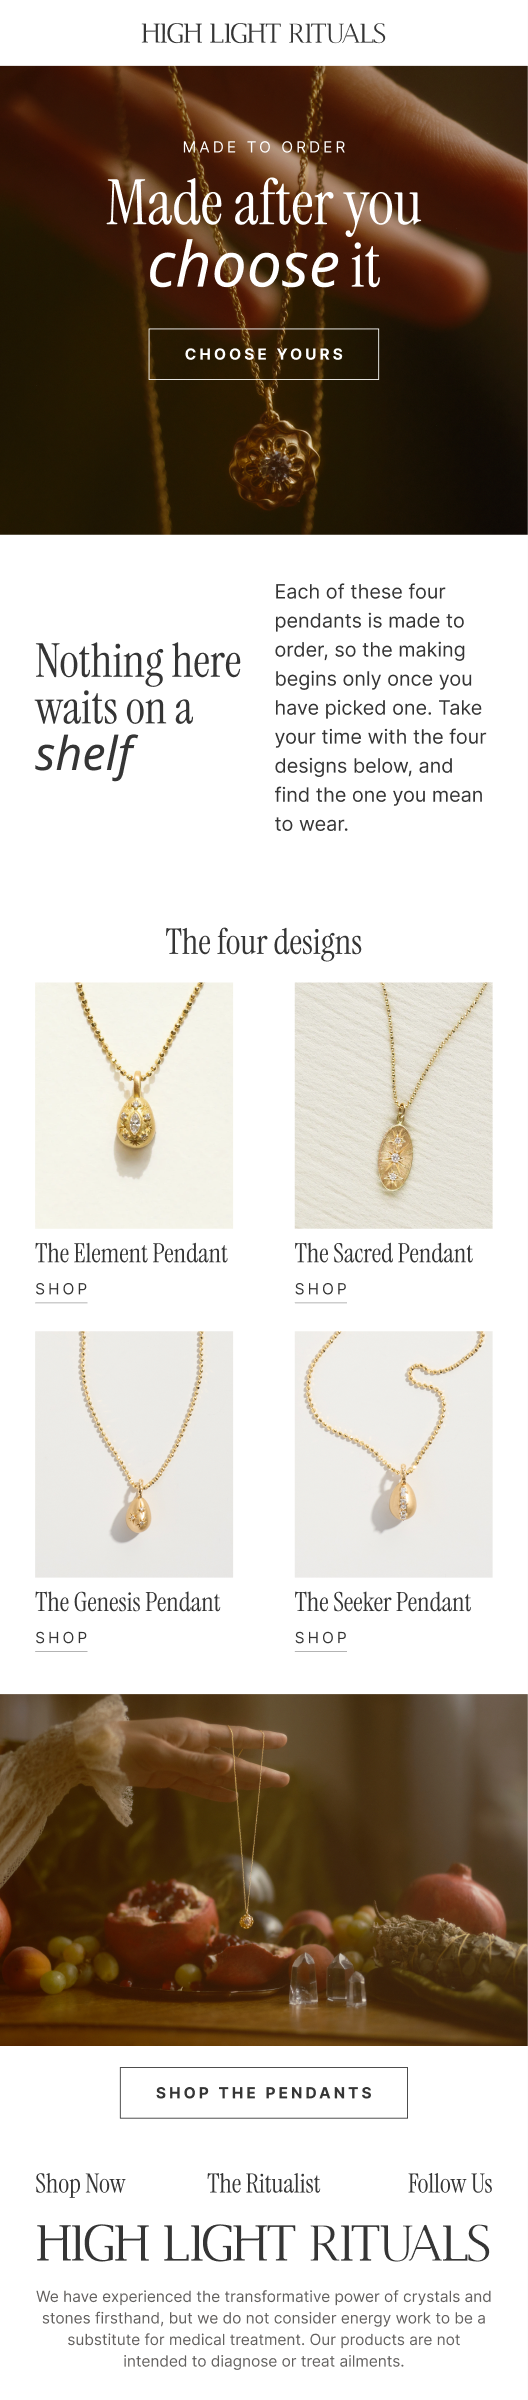
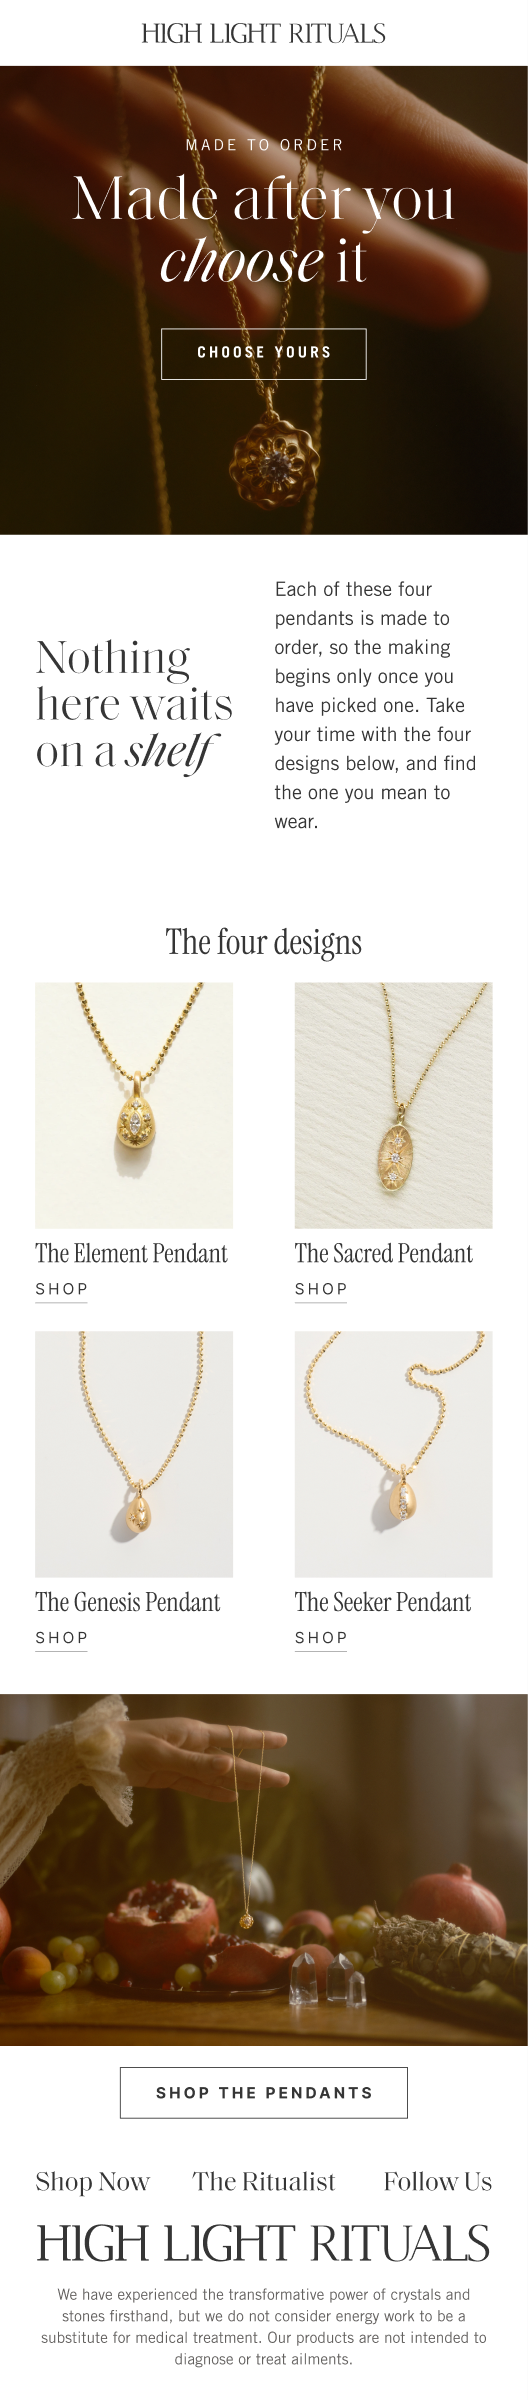
HLR: library switched to the real faces, slots re-measured
Eddie loaded Saol Display, Saol Standard and Trade Gothic LT Std to the
team Figma. The library's 8 font variables (24 values) now name the real
faces; figma.yaml's stand-in maps are empty; every slot re-measured on
the real faces (one change: M06's SHOP link 3x to 4x; E02.label stays 12,
set by M15). The license flag stays raised until HLR confirms the licenses.

Claude-Session: https://claude.ai/code/session_01D7A8SADq9LgJgKNP4hvJh9

diff --git a/outputs/step-4-figma/guards/tests/host_shape_mutations.py b/outputs/step-4-figma/guards/tests/host_shape_mutations.py
@@ -18,7 +18,7 @@ cases = {
  'm2 M11 shape without its 16': shape('M11', json.loads(ml0)['MOD_SHAPE']['M11'].replace('16 characters at most', 'short')) + (1,),
  'm3 M15 shape names E07.name with the full-name rule and the words "short form" negated': shape('M15', m15.split('the short form')[0] + 'the full product name (E07.name, never a short form; set in caps by the style) and a caps link (E02.label, 12 characters at most).') + (1,),
  'm4 M15 shape gives the full-name rule without writing the slot id': shape('M15', m15.split('the short form')[0] + 'the product display name from products.json as written, set in caps by the style, and a caps link (E02.label, 12 characters at most).') + (1,),
- 'm5 slot map E02.label budget 12 -> 10, M15 shape still says 12': slot('max_chars: 12, budget_from: "M06"', 'max_chars: 10, budget_from: "M06"') + (1,),
+ 'm5 slot map E02.label budget 12 -> 10, M15 shape still says 12': (ml0, re.sub(r'(id: E02\.label, [^}]*max_chars: )12', r'\g<1>10', sm0), 1),
  'm6 slot map E07.name note back to the full display name': slot('note: "a short form: the stone,', 'note: "the full display name: the stone,') + (1,),
  'm7 slot map M12.cta 16 -> 14, M12 shape still says 16': (ml0, re.sub(r'(id: M12\.cta, [^}]*max_chars: )16', r'\g<1>14', sm0), 1),
  'm8 E07 own shape back to the full display name': shape('E07', 'label: one accent word (a month, a stone); name: the product display name from products.json, as written (the style sets caps).') + (1,),

diff --git a/REVIEW.md b/REVIEW.md
@@ -209,7 +209,7 @@ Seeded from LEARNINGS.md and lane F's dry run. Entries are cited by a phrase fro
 | R5 | Fixtures that carry another brand's facts or drift from their source | engines 0.5.0 and 0.5.1 (fixture slot maps, budgets, barred terms, review ids, reworded quotes; three evals graded against an earlier fixture) | fixtures rewritten with fictional brands (DECISIONS, 0.5.0 and 0.5.1); the census and scans cover tests and fixtures | no test checks a fixture's label or an eval's match to its fixture; lane H, at its next close |
 | R6 | A platform number that is a brand's, or rests on a secondary source | engines 0.5.0 and 0.5.1 (paid safe bands from one brand's guide layer); Step 1b pattern review (9:16 from a secondary summary) | `_verified`, `_sources` and a confidence on every spec number; agreed numbers error, others warn (check 6) | the spec scan sits in `$RC/0.5.2/`, not yet beside the other tools, lane H at its next close; a person confirms the paid 9:16 bands and copy limits in Meta's guide before the first paid build, and `_verified` moves (DECISIONS 2026-10-18) |
 | R7 | An em dash in marketing copy or HLR-bound output | Gate 3 proposed (frame names); lane F (a written escape became one in REVIEW.md's draft) | guard built: lane E, `outputs/step-2-pack/preflight.md` (R7): the character is in HLR's `prohibited_patterns` (File map) and every lint blocks it end to end, a comma control drawing nothing; the grep in section 2 | `page_lint.js` refuses every page until the web taxonomy is ratified at Review 2; Eddie |
-| R8 | Faces the Figma build path cannot load | Gate 3 proposed; engines 0.5.0 and 0.5.1; lane B (a stand-in maps families, not styles); Chat 6 review round 1 (R1-03: four labels bound only their font style) | Gate 3 call 7, path 1: stand-ins in `figma.yaml`, families bound to `HLR / Layout` variables and switched in the desktop app, budgets re-measured; guard built: Chat 5, `outputs/step-4-figma/guards/r8_text_style_family.js` (every text style binds its family to a variable; 15 styles, 0 fails, 2026-10-23); guard extended: Chat 6, `outputs/step-4-figma/guards/r8_text_nodes.js` (every text segment binds family, size and style, through its style or on the node; 01 to 04, 0 fails, 2026-10-23) | the switch to the real faces waits on HLR's licenses (rule 8); HLR |
+| R8 | Faces the Figma build path cannot load | Gate 3 proposed; engines 0.5.0 and 0.5.1; lane B (a stand-in maps families, not styles); Chat 6 review round 1 (R1-03: four labels bound only their font style) | Gate 3 call 7, path 1: stand-ins in `figma.yaml`, families bound to `HLR / Layout` variables and switched in the desktop app, budgets re-measured; guard built: Chat 5, `outputs/step-4-figma/guards/r8_text_style_family.js` (every text style binds its family to a variable; 15 styles, 0 fails, 2026-10-23); guard extended: Chat 6, `outputs/step-4-figma/guards/r8_text_nodes.js` (every text segment binds family, size and style, through its style or on the node; 01 to 04, 0 fails, 2026-10-23) | the switch to the real faces ran 2026-10-23 at Eddie’s request, once the build path could load them; shipping still waits on HLR’s licenses (rule 8); HLR |
 | R9 | Figma limits hit mid-run | Step 1, chat 1 (20 KB results); Step 1b pattern review (one rate limit for parallel subagents); Gate 1 closed (10 calls a minute, 200 a day) | the call budget in the first brief; aggregates by script, bulk reads by `get_metadata` | a habit, accepted for Phase 1; a brief without a call budget is a should-fix |
 | R10 | Sources that disagree by date | Step 1, chat 1 (book, site and SVG fills); Step 1b pattern review (imagery families with no card); lane B (archive mark fills) | sources dated; contradictions flagged in `brand-context.md`, never silently resolved (playbook section 3) | a habit (rule 2's trace), accepted for Phase 1 |
 | R11 | Cost not measured, or measured two ways that disagree | every 2026-10-17 entry and lane B (main chat not measured); lane A (its own count and the harness's disagree, both over target) | each entry's cost line | a habit, accepted for Phase 1; the forge proof still needs a measured cost (Chat 7) |

diff --git a/DECISIONS.md b/DECISIONS.md
@@ -4,6 +4,8 @@ Newest first. Each line: the decision, its reason, what it replaced. Only Eddie 
 
 ## 2026-10-23
 
+- Eddie, 2026-10-23: use HLR’s real faces in the library (“i want to use the real fonts”). He loaded Saol Display, Saol Standard and Trade Gothic LT Std to the team Figma, and the build path now loads them. Claude switched the 8 font variables (24 values: font/family/display, title and body; font/style/display, display-accent, headline-accent, quote and price) in all three Layout modes, renamed the six notices License notice and reworded them, updated the Type board’s meta lines, the 14 text style descriptions and the 8 font variable descriptions (from the engine’s plan, now without stand-ins), and emptied figma.yaml’s stand-in maps. The license flag stays raised until HLR confirms the licenses (rule 8). Reason: Eddie’s request; the stand-ins existed only because the build path could not load the faces (Gate 3 call 7, path 1). Replaced: the stand-ins, and REVIEW.md R8’s gap, which held the switch for HLR’s licenses.
+- Every slot re-measured on the real faces (probe v3d, `chat6/inv4/probe4.json`: 100 slot entries over 8 elements, 21 modules and the M02, M04, M09 and E06 option instances; every lint PASS, every text restored). One changed: M06’s SHOP link from 3x to 4x, so E02.label stays 12 characters, now set by M15 (budget_from M15). slotmap.yaml’s measured_at names the real faces, and slot lint passes with no stand-in warnings. On Trade Gothic Bold at 35 px, Chrysocolla and Dumortierite now fit E07’s 320 card on one line; Phosphosiderite still breaks inside the word (Rhodochrosite would too), so those cards are set by hand. Decided by Claude. Reason: the budgets were provisional on the stand-ins. Replaced: the stand-in measure (`chat6/inv3/probe3.json`).
 - Fresh-context review of Foundations, round 3, the last (`outputs/step-4-figma/review-foundations-r3.md`): 0 blockers, 1 should-fix, 6 notes; round 2’s fixes held but for the five pair cells’ layer names. Fixed: F3-02, F3-03 and F3-01’s live row (K3’s and C2’s steps now name Review 2, where Eddie confirms the Gate 4 calls). Open: F3-01’s approach (the closed-gate guard, three options on the decision sheet, default 1) and F3-04 (rule 4’s wording, a REVIEW.md change) go to Eddie; F3-05 to F3-07 are logged for Chat 6’s next close, since a guard changed after the last round would ship unreviewed. Decided by Claude under Eddie’s delegation. Reason: REVIEW.md section 5 steps 4 and 6, section 4 tier 1. Replaced: nothing.
 - Fresh-context review of Foundations, round 2 (`outputs/step-4-figma/review-foundations-r2.md`): 0 blockers, 2 should-fix and 5 notes; the eight round 1 fixes held in every copy. All seven fixed in the same release, the two notes the reviewer gave Eddie included (the email batch had used its three rounds; both are a record and a guard, no decision). Round 3, the last, re-reads them. Decided by Claude under Eddie’s delegation. Reason: REVIEW.md section 5. Replaced: nothing.
 - Gate 4’s open gaps, in full: web breakpoints, margins and grid, and the web focus ring (token-model K2), go to Eddie at Review 2 with the web masters; the highlight cover’s canvas and structure to Eddie with the organic social batch; mark clear space and minimum sizes to HLR’s vectors (Review 1). The pack, the gap register (a Review 2 step for the breakpoints row, a new focus ring row) and the Review 2 package (section 7) say so. Decided by Claude under Eddie’s delegation. Reason: F2-01: six pack lines still sent these to Gate 4 after it closed, and the Gate 4 line below named two gaps where the Foundations line routed three. Replaced: the two-gap list in the Gate 4 line below.

diff --git a/brand-pack/brand-context.md b/brand-pack/brand-context.md
@@ -102,7 +102,7 @@ Voice-side house style lives in `voice-contract.md` section 6 and wins over this
 
 - Tokens: `tokens.json` (DTCG; 103 tokens, 82 [documented], 20 [observed], 1 [derived] by first tag (`color.semantic.text.on-placeholder`, Gate 4; the placeholder label’s alias carries a second, [derived] tag), counted 2026-10-23; namespace `com.hlr`, CSS prefix `--hlr-`). Ground modes on `HLR / Semantic` (`light`, `warm`, `deep`, `night`, named at Gate 4 on 2026-10-23); canvas modes on `HLR / Layout` (`web`, `social`, `email`; DECISIONS 2026-10-18, Gate 2 question 1). The installed engine is 0.5.3 (Eddie, 2026-10-22): `check` passes in every ground and canvas. Web exports: `web/tokens.css`, `web/tailwind.tokens.js` and `web/tokens.flat.json`, generated from `tokens.json` by `tokens_build.js export` on 2026-10-23 (regenerated, never hand-edited; `font.style` stays in Figma, the web takes `font.weight`).
 - The contrast law, the type roster, the gap register and the ratification log: `token-model.md`. The law is [documented] (ratified 2026-10-22 by Eddie, Gate 2 package call 2): every ground in the roster carries body copy in its ink; Fawn is never an ink on Alabaster, white or the neutrals. Copy on photography is judged by eye on the real image [documented, DECISIONS 2026-10-18: Eddie's ruling, Gate 2 question 4].
-- Faces (Gate 1, C5, for HLR to confirm): Saol Display, Saol Standard, Trade Gothic LT Std, Homemade Apple. License flag raised: Saol and Trade Gothic have no license file (`figma.yaml` `fonts.licensed: false`) [observed, 2026-10-17], so every deliverable that renders text carries the flag [documented, project rule 8]. The Figma build sets Instrument Serif and Inter as stand-ins and Eddie switches the family variables in the desktop app (Gate 3 call 7, path 1).
+- Faces (Gate 1, C5, for HLR to confirm): Saol Display, Saol Standard, Trade Gothic LT Std, Homemade Apple. License flag raised: Saol and Trade Gothic have no license file (`figma.yaml` `fonts.licensed: false`) [observed, 2026-10-17], so every deliverable that renders text carries the flag [documented, project rule 8]. The Figma library is set in the real faces since 2026-10-23, when Eddie loaded them to the team Figma and the build path could load them [observed, 2026-10-23]; it ran on Instrument Serif and Inter stand-ins until then (Gate 3 call 7, path 1).
 - Marks: `logo-assets.md`. The wordmark and the monogram exist as SVG [observed, `HLR Logo & Marks/`, 2026-10-18]; the star and every lockup with it wait for HLR's vectors, and no lockup is composed by eye [documented] (ratified 2026-10-22 by Eddie, Gate 2 package call 11); a mark is placed, never redrawn or set in a font [documented, playbook section 4; the pack contract's `logo_assets` row]. The rest of the mark rules are [documented] (ratified 2026-10-22 by Eddie, Gate 2 package call 11).
 - Imagery: Eddie owns the images on the reference file's Images page (97: founder headshots, HLR Editorial, product shots, Zodiac Sets, Amulets; now on the library's `photos` page, 27:104) and the product images on the site, and cleared them for HLR's designs [documented, DECISIONS 2026-10-23: Eddie's ruling, image rights]; an image from any other source keeps the labelled grey placeholder until its right is confirmed [documented, project rule 8]; releases for the people in them stay HLR's question (`faces_policy`) [documented, Brand Review v2 Q6]; nothing is generated in place of a real shot until Eddie rules on it for HLR (REVIEW.md rule 8: no ruling yet) [derived]. Art direction cards: `art-direction.md`. The asset roster: `asset-types.md`. Figma state: `figma.yaml` (library `Gq3yUbLs6MCRM0nOhjvnIW`, slot namespace `hlr`).
 

diff --git a/brand-pack/token-model.md b/brand-pack/token-model.md
@@ -109,8 +109,8 @@ Roster (Gate 3 call 7 and Gate 2 question 1): 15 text styles named by role and s
 | Trade Gothic LT Std (Regular, Bold, Light, Light Oblique, Oblique) | `Desktop/*.otf` | no license file | unconfirmed; owner HLR |
 | Trade Gothic LT W01 (web kit) | `Web/Trade Gothic Roman + Bold/` | Monotype Webfonts Pay-As-You-Go EULA: sites the licensee owns, no email | web only |
 | Homemade Apple | `homemade-apple/` | Apache 2.0, LICENSE on disk | cleared |
-| Instrument Serif (Figma build stand-in) | `instrument-serif/` | SIL OFL 1.1, LICENSE on disk | cleared |
-| Inter (Figma build stand-in) | none on disk | no license file on disk | confirm before any use outside the Figma build |
+| Instrument Serif (the Figma build’s stand-in until 2026-10-23) | `instrument-serif/` | SIL OFL 1.1, LICENSE on disk | cleared |
+| Inter (the Figma build’s stand-in until 2026-10-23) | none on disk | no license file on disk | confirm before any use outside the Figma build |
 
 Open with HLR: whether the desktop licenses cover type rendered into email image slices and social and paid art.
 
@@ -140,7 +140,7 @@ Status: open, [observed], [derived] proposal, ruled, conflict. Owner is who clos
 | T7 | Type ramp | ruled (ratified 2026-10-22 by Eddie, Gate 2 package call 3) | section 3 | Eddie | Gate 2 |
 | T8 | Ramp per canvas | ruled (Eddie, 2026-10-18, Gate 2 question 1): canvas modes on Layout, `web`, `social`, `email`; 15 styles | `font.size.<step>` with a value per canvas mode; the engine support is 0.5.3 | lane H | 0.5.3 |
 | T9 | Leading and tracking in Figma | ruled (Eddie, 2026-10-18, Gate 2 question 3): set on each style, unbound, in percent | Figma binds them only as pixels | none | |
-| T10 | Stand-in styles: Instrument Serif has no Light, Light Italic, Regular Italic or Medium | ruled (Eddie, 2026-10-18, Gate 2 question 2) | `figma.yaml` `fonts.build_stand_in_styles`; every face the build loads exists | none | |
+| T10 | Stand-in styles: Instrument Serif has no Light, Light Italic, Regular Italic or Medium | closed: moot since 2026-10-23, the library is set in the real faces (ruled before by Eddie, 2026-10-18, Gate 2 question 2) | `figma.yaml` `fonts.build_stand_in_styles`; every face the build loads exists | none | |
 | T11 | Live-text email sizes (body 28, small 22) | conditional (C8) | no tokens until HLR says the ESP sends live text | HLR | Review 1 |
 | T12 | Case and text-style properties a variable cannot bind | ruled (ratified 2026-10-22 by Eddie, Gate 2 package call 5) | the roster in `$extensions.com.hlr.text_styles` | Chat 5 | Step 4 |
 | L1 | Space scale | ruled (ratified 2026-10-22 by Eddie, Gate 2 package call 8): 4-based, Tailwind numbering | normalises observed 10, 15, 50 | Eddie | Gate 2 |

diff --git a/PROGRESSION.md b/PROGRESSION.md
@@ -58,7 +58,7 @@ Runs as parallel lanes A to E (`_setup/next-chat-prompts.md`).
 ## Step 4. Figma
 
 - [x] **Gate 3** (lane G): Eddie ruled the file and the conventions (2026-10-17, chat 4: `outputs/step-4-figma/gate-3-conventions.md`, DECISIONS); the variables and text styles wait for Pack v0 and Gate 2
-- [x] Foundations through the engine's design-system skill (2026-10-17: the pages, the four empty collections with their modes and the six empty boards exist; ids in `figma.yaml`): pages, variables with every id recorded, text styles on the real faces with the OTFs uploaded, marks as SVG components, the certified-pairs board, the strictness map (2026-10-23, Chat 5: built, with the text styles on the stand-ins under Gate 2 question 2 and the license flag raised; guards R8 and R13; DECISIONS)
+- [x] Foundations through the engine's design-system skill (2026-10-17: the pages, the four empty collections with their modes and the six empty boards exist; ids in `figma.yaml`): pages, variables with every id recorded, text styles on the real faces with the OTFs uploaded, marks as SVG components, the certified-pairs board, the strictness map (2026-10-23, Chat 5: built, with the text styles on the stand-ins under Gate 2 question 2 and the license flag raised; guards R8 and R13; DECISIONS; 2026-10-23, Chat 6: switched to the real faces at Eddie’s request, every slot re-measured on them, the flag still raised)
   - 2026-10-23: fresh-context review, round 1 (`outputs/step-4-figma/review-foundations-r1.md`): 2 blockers, 3 should-fix, 3 notes on the boards and descriptions, all fixed; round 2 (`review-foundations-r2.md`): 0 blockers, 2 should-fix, 5 notes, all fixed, the guards tightened (`guards/tests/run_all.sh`); round 3, the last (`review-foundations-r3.md`): 0 blockers, 1 should-fix, 6 notes; closed with F3-01’s approach (the closed-gate guard) and F3-04 (rule 4’s wording) on Eddie’s decision sheet and F3-05 to F3-07 logged for Chat 6’s next close
 - [x] **Gate 4**: Eddie rules on the ground roster and batch scope (CTA shape ruled at Gate 1, C6) (2026-10-23: decided by Claude under Eddie's delegation, for Eddie to confirm: grounds light, warm, deep and night; the placeholder label ink; the strictness map adopted; email first; DECISIONS)
 - [ ] Before the first paid build: a person confirms the 9:16 keep-clear bands and the copy limits in Meta's Ads Guide, and `placement-specs.json`'s `_verified` moves (DECISIONS 2026-10-18)

diff --git a/LEARNINGS.md b/LEARNINGS.md
@@ -34,6 +34,10 @@ One dated entry per chat, newest first.
 - A phrase rule for promises is a heuristic: round 3 broke the closed-gate rule 20 ways in 22 lines. Where a promise lives in a table (a register’s step column), check the structure, not the prose.
 - Review rounds on guard code cost as much as rounds on the deliverable (Foundations: about 1.24M tokens over three rounds) and keep finding near variants. Build a guard for the class a round names, record its known limits in the R row, and stop.
 - The bridge to the Mac dropped at about 06:46 UTC, before the night’s last sync, so three review rounds of records waited in the session: sync and commit at each round’s close, not once at the end.
+- The real faces barely moved the budgets: one slot of 100 changed, and it grew, because Trade Gothic sets narrower than Inter and every module hugs its copy. Building on stand-ins while the faces could not load was sound.
+- Fonts loaded to the team Figma become loadable on the build path at once: check `listAvailableFontsAsync` before treating a face as desktop-only.
+- A second `device_commit_files` of the same staged path can resend the first upload, and PNGs arrive re-encoded: stage a changed file under a new name and compare md5 sums on the Mac after every commit.
+- An inline `//` comment pasted into a one-line function swallowed the rest of `scrolls()` in `checklib.js`: write comments on their own lines (or as `/* */` in a one-liner) and parse a probe library before a run.
 - A scan beats a list: round 2 named six pack lines still promising Gate 4’s work, and the scan built for them found five more. Fix a class with a scan, then let the scan find the instances.
 - A guard that hashes a prefix, a first tag word or only a pair’s names cannot see a change past what it hashes (F2-02: an exemplar changed after character 40, a ratio or a role, "[derived], ratified"). Hash the whole of what the board shows, and keep the cases that must fail beside the guard (`guards/tests/run_all.sh`).
 - A token description edit is a Figma edit too: the engine’s figma-plan is the source of the variables’s descriptions, so 19:5 and 19:44 changed in the same release as tokens.json.

diff --git a/outputs/step-4-figma/demo-email/build.md b/outputs/step-4-figma/demo-email/build.md
@@ -54,5 +54,5 @@ Each card in slice 4 links to its own product page; the ESP's image map or four 
 ## Checks
 
 - Library checks behind it: every module and element passes structure lint, flex at 2x or better, canvas and face checks (`outputs/step-4-figma/` check notes; slot map regenerated 2026-10-23).
-- The build stand-ins render the accent in Instrument Serif Italic; server screenshots show a fallback sans for that one face (a plain, unbound Instrument Serif Italic node renders the same way), so the italic is judged in the Figma app, not in a screenshot.
-- Standing flags: fonts unlicensed (stand-ins in the file); the ledger is a test seed, so no line is cleared for production; the four-point star in the footer waits for its vector (HLR).
+- Set in the real faces since 2026-10-23 (Saol Display Light with its Light Italic accent, Saol Standard, Trade Gothic LT Std); the preview is a server screenshot of 63:354 on those faces. On the stand-ins the server screenshots showed a fallback sans for the italic accent; on Saol it renders.
+- Standing flags: fonts not yet licensed (the real faces are in the file; HLR confirms the licenses, Brand Review v2 Q2); the ledger is a test seed, so no line is cleared for production; the four-point star in the footer waits for its vector (HLR).

diff --git a/outputs/step-4-figma/review-2-package.md b/outputs/step-4-figma/review-2-package.md
@@ -68,7 +68,7 @@ T01 Product Spotlight (from 2:563, in its order: header, spotlight, text, image,
 
 ## 6. Questions for HLR, ranked by what they block
 
-1. Font licenses for Saol Display, Saol Standard and Trade Gothic LT Std (Brand Review v2 Q2): nothing ships until they are confirmed; the library runs on stand-ins.
+1. Font licenses for Saol Display, Saol Standard and Trade Gothic LT Std (Brand Review v2 Q2): nothing ships until they are confirmed; the library is set in the real faces since 2026-10-23, with the license flag raised on every board.
 2. The claims signer (Q1, C2): every line that touches health, origin, sourcing or making waits on a ruling; the demo stays inside made to order for that reason.
 3. The Shopify products export (Q5): product descriptions, metals and stones; until it lands, the product modules carry names and images only (M13 and M21 have nothing to say yet).
 4. The star and lockup vectors (Q3): the footer star and the lockup header wait for them.
